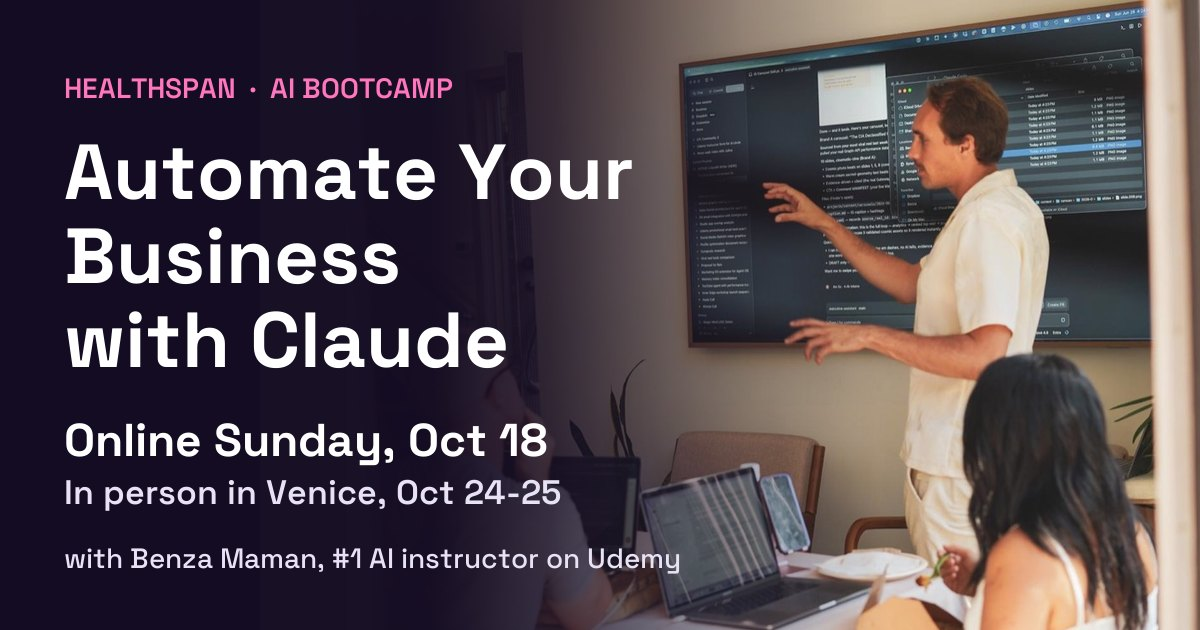
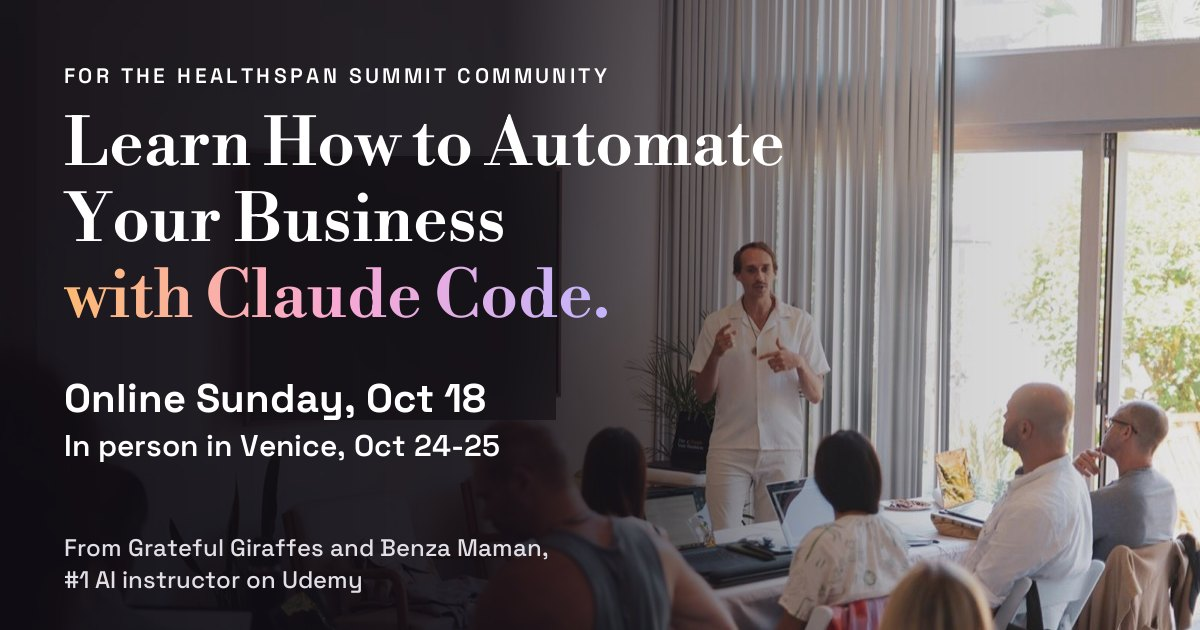
Healthspan share card: the landing page hero (Benza teaching, Learn How to Automate Your Business with Claude Code)

diff --git a/healthspan/index.html b/healthspan/index.html
@@ -3,23 +3,23 @@
 <head>
 <meta charset="utf-8">
 <meta name="viewport" content="width=device-width, initial-scale=1">
-<title>Automate Your Business with Claude · AI Bootcamp · The Oasis</title>
+<title>Learn How to Automate Your Business with Claude Code · The Oasis</title>
 
 <meta property="og:type" content="website">
 <meta property="og:site_name" content="The Oasis">
-<meta property="og:title" content="Automate Your Business with Claude · AI Bootcamp">
-<meta property="og:description" content="For the Healthspan community: live online Sunday, Oct 18 or in person in Venice, Oct 24-25, with Benza Maman, #1 AI instructor on Udemy.">
+<meta property="og:title" content="Learn How to Automate Your Business with Claude Code">
+<meta property="og:description" content="For the Healthspan Summit community: live online Sunday, Oct 18 or in person in Venice, Oct 24-25, with Benza Maman, #1 AI instructor on Udemy.">
 <meta property="og:url" content="https://grateful.gg/healthspan/">
-<meta property="og:image" content="https://grateful.gg/healthspan/cover.jpg?v=teach">
-<meta property="og:image:secure_url" content="https://grateful.gg/healthspan/cover.jpg?v=teach">
+<meta property="og:image" content="https://grateful.gg/healthspan/cover.jpg?v=hero">
+<meta property="og:image:secure_url" content="https://grateful.gg/healthspan/cover.jpg?v=hero">
 <meta property="og:image:type" content="image/jpeg">
 <meta property="og:image:width" content="1200">
 <meta property="og:image:height" content="630">
-<meta property="og:image:alt" content="Benza Maman teaching at the screen during an AI Bootcamp. Automate Your Business with Claude, online Sunday Oct 18, in person in Venice Oct 24-25.">
+<meta property="og:image:alt" content="Benza Maman teaching an AI Bootcamp. Learn How to Automate Your Business with Claude Code, online Sunday Oct 18, in person in Venice Oct 24-25.">
 <meta name="twitter:card" content="summary_large_image">
-<meta name="twitter:title" content="Automate Your Business with Claude · AI Bootcamp">
-<meta name="twitter:description" content="For the Healthspan community: live online Sunday, Oct 18 or in person in Venice, Oct 24-25, with Benza Maman, #1 AI instructor on Udemy.">
-<meta name="twitter:image" content="https://grateful.gg/healthspan/cover.jpg?v=teach">
+<meta name="twitter:title" content="Learn How to Automate Your Business with Claude Code">
+<meta name="twitter:description" content="For the Healthspan Summit community: live online Sunday, Oct 18 or in person in Venice, Oct 24-25, with Benza Maman, #1 AI instructor on Udemy.">
+<meta name="twitter:image" content="https://grateful.gg/healthspan/cover.jpg?v=hero">
 
 <!-- Humans go to the real page; crawlers read the tags above first. The card
      below only shows if the redirect is blocked (in-app browsers, JS off). -->
@@ -46,8 +46,8 @@
 </head>
 <body>
   <main class="card">
-    <img src="https://grateful.gg/healthspan/cover.jpg?v=teach" alt="Benza Maman teaching at the screen during an AI Bootcamp. Automate Your Business with Claude, online Sunday Oct 18, in person in Venice Oct 24-25." width="1200" height="630">
-    <div class="b"><h1>Automate Your Business with Claude · AI Bootcamp</h1><p>For the Healthspan community: live online Sunday, Oct 18 or in person in Venice, Oct 24-25, with Benza Maman, #1 AI instructor on Udemy.</p>
+    <img src="https://grateful.gg/healthspan/cover.jpg?v=hero" alt="Benza Maman teaching an AI Bootcamp. Learn How to Automate Your Business with Claude Code, online Sunday Oct 18, in person in Venice Oct 24-25." width="1200" height="630">
+    <div class="b"><h1>Learn How to Automate Your Business with Claude Code</h1><p>For the Healthspan Summit community: live online Sunday, Oct 18 or in person in Venice, Oct 24-25, with Benza Maman, #1 AI instructor on Udemy.</p>
     <a class="btn" href="https://app.grateful.gg/healthspan">Open the event &rarr;</a></div>
   </main>
 </body>
